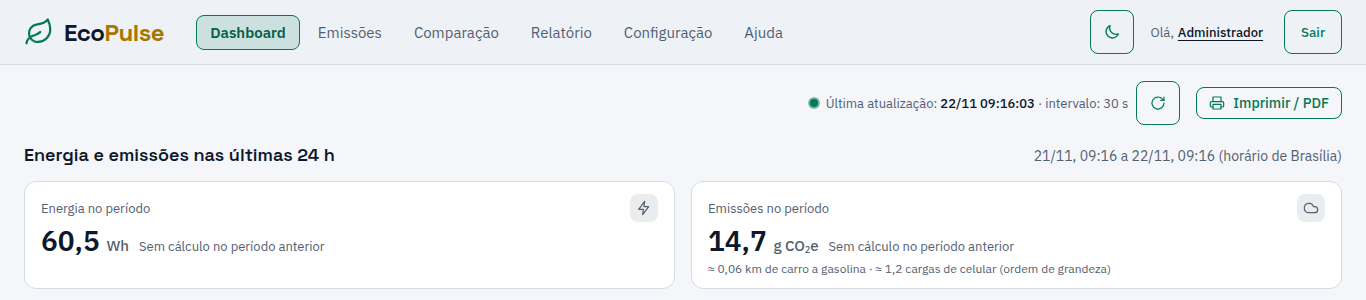
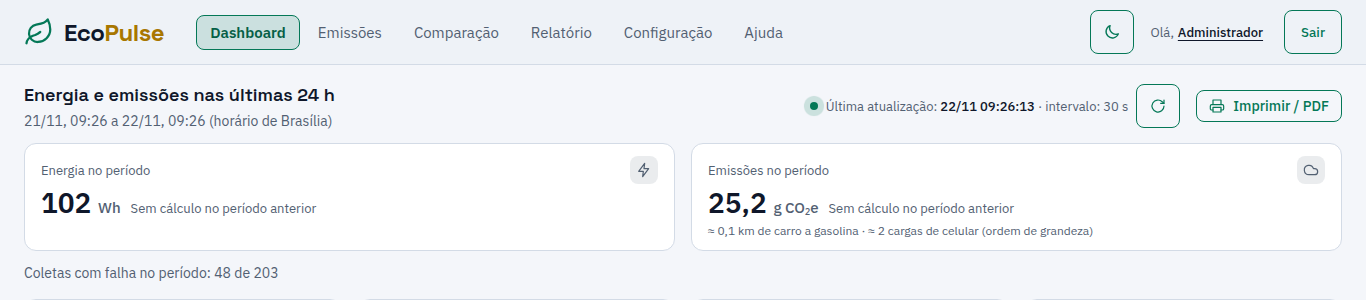
docs(docs): descreve a atualização na linha do título (#434)

diff --git a/frontend/README.md b/frontend/README.md
@@ -38,7 +38,7 @@ Lidas do `.env` da **raiz** do repositório (modelo em `.env.example`; `envDir: 
 - Com a aba oculta o polling pausa; ao voltar para a aba, busca na hora.
 - Ao sair da tela, o timer é limpo e a requisição pendente é cancelada (`AbortController`).
 - O intervalo vem do backend (#176): o `MonitoringProvider` lê `GET /monitoring-settings` ao abrir e de novo a cada ciclo, então uma troca feita na Configuração, em qualquer aba ou navegador, vale para todos no ciclo seguinte. Se a rota falhar ou responder fora do contrato, fica o último valor lido (antes do primeiro, o `VITE_REFRESH_INTERVAL_MS`).
-- No topo do Dashboard, à esquerda de **Imprimir / PDF**, ficam "Última atualização: dd/mm HH:MM:SS · intervalo: N s" e o botão **Atualizar agora**; antes da primeira busca bem-sucedida (inclusive se ela falhar), aparece "Aguardando a primeira atualização" com o intervalo e o botão. Até a #434 os dois ficavam no cabeçalho, e o menu quebrava em duas linhas abaixo de cerca de 1.215 px; agora o cabeçalho só tem a marca, o menu e as ações da pessoa, e fica em uma linha a partir de cerca de 1.110 px. No papel a barra some, e o cabeçalho do relatório traz a última atualização.
+- Na linha do título **Energia e emissões nas últimas 24 h**, à direita (com o período embaixo do título), ficam "Última atualização: dd/mm HH:MM:SS · intervalo: N s", o botão **Atualizar agora** e **Imprimir / PDF**; em tela estreita, os três descem para baixo do período. Enquanto o painel não aparece (carregando, falha sem dados, nenhum serviço, modo demonstração), a mesma barra fica sozinha no topo da página, para a última atualização nunca sumir; antes da primeira busca bem-sucedida (inclusive se ela falhar), aparece "Aguardando a primeira atualização" com o intervalo e o botão. Até a #434 os dois ficavam no cabeçalho, e o menu quebrava em duas linhas abaixo de cerca de 1.215 px; agora o cabeçalho só tem a marca, o menu e as ações da pessoa, e fica em uma linha a partir de cerca de 1.110 px. No papel a barra some, e o cabeçalho do relatório traz a última atualização.
 - Durante uma busca o botão fica com `aria-disabled` (não `disabled`), para quem navega pelo teclado não perder o foco a cada ciclo. O selo não é `role="status"`: o horário não é anunciado a cada ciclo, e a falha é anunciada pelo aviso de erro.
 - Se uma atualização falhar com dados na tela, eles continuam visíveis, o selo fica laranja ("Desatualizado desde…") e, acima dos cards, aparece a faixa compacta laranja `UpdateFailedBanner` (cerca de 40 px): a mensagem do erro, "Mostrando dados de HH:MM:SS." e **Tentar novamente**. A mensagem é a que o hook entrega: "Não foi possível conectar ao servidor…" quando a rede cai, ou a do corpo do erro num 500. O aviso grande (`ErrorState`) fica só para a falha sem nenhum dado.
 - A faixa é `role="status"`, e não `alert`: a região viva fica montada enquanto há dados, e o leitor de tela anuncia a falha uma vez, e não a cada ciclo do polling.
@@ -143,7 +143,7 @@ _Backend falso, 1280 px, tema escuro, em 21/11/2026: o nome salvo já aparece no
 
 ## Indicadores agregados (RF08)
 
-- `IndicatorsPanel` fica no topo do dashboard, logo abaixo do cabeçalho e acima dos cards de estado (#259: o impacto vem primeiro), e mostra **Energia no período** e **Emissões no período** das **últimas 24 h**, na unidade que o valor pede ("841 Wh", "1,23 kWh", "301 g CO₂e"; [regra das unidades](#unidades-de-energia-e-emissão-271)), com o período no título em horário de Brasília (`timeZone: 'America/Sao_Paulo'`). O estado dos serviços fica só nos cards do `KpiPanel` (#21): o `servicesByStatus` de `GET /api/services/summary` é o estado **atual** e não depende do período, por isso o painel não o repete.
+- `IndicatorsPanel` fica no topo do dashboard, logo abaixo do cabeçalho e acima dos cards de estado (#259: o impacto vem primeiro), e mostra **Energia no período** e **Emissões no período** das **últimas 24 h**, na unidade que o valor pede ("841 Wh", "1,23 kWh", "301 g CO₂e"; [regra das unidades](#unidades-de-energia-e-emissão-271)), com o período embaixo do título em horário de Brasília (`timeZone: 'America/Sao_Paulo'`) e, na mesma linha do título, a prop `actions`: no Dashboard, a última atualização, **Atualizar agora** e **Imprimir / PDF** (#434). O estado dos serviços fica só nos cards do `KpiPanel` (#21): o `servicesByStatus` de `GET /api/services/summary` é o estado **atual** e não depende do período, por isso o painel não o repete.
 - **Janela única de 24 h (#375):** a cada atualização bem-sucedida da lista, `dashboardPeriod(updatedAt)` calcula uma única vez `from` e `to`. `GET /api/services/summary`, `GET /api/services/ranking` e `GET /api/regions/summary` recebem exatamente os mesmos instantes ISO; a borda do período não muda entre as três consultas. O hook `useSummary` recebe essa janela pronta. Em caso de falha da lista, a janela não avança até a próxima atualização bem-sucedida.
 - O `DashboardPage` chama `GET /api/services/summary` (por `fetchServicesSummary`, em `src/services/summary.service.ts`, chamado pelo hook `useSummary`) a cada ciclo do polling, **uma vez**: a resposta traz o período atual (`from`/`to`, as últimas 24 h) e o `previous` com as 24 h anteriores, de mesma duração (contrato de `docs/api.md`, #234). A nota de cada card é a variação com seta: "▲ 12,4% vs 24 h anteriores" em laranja (energia e CO₂e são métricas em que menos é melhor), "▼ 8,1%" em verde e "±0%" em cinza abaixo de 0,5%. De 100% a 999%, sem casa decimal ("▲ 880%"); acima de 999%, "▲ 10×+". Sem cálculo nas 24 h anteriores, a nota é "Sem cálculo no período anterior"; com total anterior zero, a nota é "— vs. 24 h anteriores" e o motivo fica no tooltip. O rótulo base é "vs. 24 h anteriores". O valor exato, com sinal e uma casa, também fica no tooltip; o leitor de tela ouve "subiu" ou "caiu" no lugar da seta.
 - Equivalência do CO₂e (#333): abaixo do valor de **Emissões no período**, o card mostra duas unidades do dia a dia ("≈ 8,7 km de carro a gasolina · ≈ 170 cargas de celular (ordem de grandeza)" para 2,13 kg CO₂e), calculadas por `src/utils/equivalents.ts` com os fatores de [docs/calculos.md § Equivalências](../docs/calculos.md#equivalências) — 244,2 g CO₂e/km de carro e 12,4 g CO₂ por carga de celular, da calculadora de equivalências da EPA consultada em 13/11/2026. Dois algarismos significativos no padrão brasileiro; abaixo de 0,01 a unidade vira "< 0,01", nunca zero. O tooltip da linha traz o fator, a fonte e a data de consulta, e o mesmo texto vai num `sr-only`, para quem usa leitor de tela ou toque (sem hover); a linha é só de apresentação e não é gravada. Sem CO₂e calculado (`null`) ou com total zero, ela não aparece.
@@ -433,7 +433,7 @@ npm run mock        # backend falso em http://localhost:3000 (desenvolvimento)
 7. Ao abrir, a tabela já vem ordenada pelo CO₂e das 24 h, do maior para o menor (#330): o título **CO₂e 24 h** mostra ↓ (`aria-sort="descending"`), a primeira linha é **Fraud Detector** e **Email Dispatcher** e **Inventory Sync**, sem cálculo no período, ficam no fim. Clicar em **Status** → ordena por gravidade (Indisponível, Sem métricas, Ativo, Removido), com desempate pelo maior CO₂e das 24 h. Clicar nos títulos das colunas (Serviço, Status, Energia 24 h, CO₂e 24 h, Parte, CPU, Fator, Última leitura, Localização) → ordena; clicar de novo inverte; serviços sem valor ficam sempre no fim. Localização ordena pela região (depois país e cidade). Ordenar por **CO₂e 24 h**, nos dois sentidos → um serviço **Removido** fica sempre na última linha, com os números em cinza. Com a tela aberta, parar o backend (`docker compose stop backend`) e clicar em **Atualizar agora** → além da faixa laranja, os números da tabela ficam em cinza, inclusive a coluna **Parte do CO₂e (24 h)**, sem o neon do 1º, e a frase **Quem pesa mais** perde a borda verde; `docker compose start backend` e **Tentar novamente** → voltam à cor normal (#261, #260).
 8. `MOCK_SERVICES=vazio npm run mock` e recarregar → "Nenhum serviço monitorado ainda".
 9. `MOCK_SERVICES=erro npm run mock` e recarregar → sem nenhum dado na tela, aparece um aviso grande "Falha simulada no backend falso." (a mensagem vem do corpo do erro) com **Tentar novamente**: a lista de serviços e o painel de indicadores falham juntos, como no backend real com o banco fora do ar, e o aviso é um só (#271). O ranking de CO₂e nem é pedido, porque espera a primeira lista: o terminal do mock não registra `GET /services/ranking`.
-10. Com dados carregados, o topo do Dashboard mostra, à esquerda de **Imprimir / PDF**, o selo **"Última atualização: dd/mm HH:MM:SS"** com um ponto verde pulsando (sistema ativo); com "reduzir movimento" ligado no sistema, o ponto fica parado. A cada horário novo no selo, o logo pulsa uma vez: a folha vira uma linha de batimento com brilho neon e volta (cerca de 2,4 s). Ele não pulsa quando a atualização falha, em **Configuração** (sem polling) nem com "reduzir movimento", e dois cliques seguidos em **Atualizar agora** não reiniciam o pulso no meio. Apertar Tab logo depois de abrir a página → aparece **Pular para o conteúdo** no canto; Enter leva o foco ao conteúdo, pulando o menu (#262).
+10. Com dados carregados, a linha do título **Energia e emissões nas últimas 24 h** mostra, à esquerda de **Imprimir / PDF**, o selo **"Última atualização: dd/mm HH:MM:SS"** com um ponto verde pulsando (sistema ativo); com "reduzir movimento" ligado no sistema, o ponto fica parado. A cada horário novo no selo, o logo pulsa uma vez: a folha vira uma linha de batimento com brilho neon e volta (cerca de 2,4 s). Ele não pulsa quando a atualização falha, em **Configuração** (sem polling) nem com "reduzir movimento", e dois cliques seguidos em **Atualizar agora** não reiniciam o pulso no meio. Apertar Tab logo depois de abrir a página → aparece **Pular para o conteúdo** no canto; Enter leva o foco ao conteúdo, pulando o menu (#262).
 11. Com o mock no ar, carregar o dashboard, depois subir o mock com `MOCK_SERVICES=erro` e clicar em **Atualizar agora** → os dados continuam na tela, o selo fica laranja (**"Desatualizado desde …"**) e, acima dos cards, aparece a faixa compacta laranja "Falha simulada no backend falso. Mostrando dados de HH:MM:SS." com **Tentar novamente**, no lugar do aviso grande.
 12. Com o mock no ar com `MOCK_REFRESH_INTERVAL_SECONDS=5 npm run mock` (PowerShell: `$env:MOCK_REFRESH_INTERVAL_SECONDS='5'; npm run mock`): a cada 5 s o horário do selo muda e o terminal do mock registra um novo `GET /services`; os valores de CPU e energia mudam na tabela **sem recarregar a página**. O selo mostra "intervalo: 5 s".
 13. Clicar em **Atualizar agora** (ícone ao lado do selo) → busca na hora, sem esperar o intervalo.

diff --git a/README.md b/README.md
@@ -90,11 +90,11 @@ O desenvolvimento acontece na branch `develop`; cada funcionalidade entra nesta 
 
   _Dashboard com o backend real (`docker compose`) em 07/11/2026, 14h25, num banco novo com poucos minutos de coletas do agregador: o Fraud Detector respondeu por 27,6% do CO₂e das últimas 24 h, e a coluna soma 100,0%._
 
-- **RNF02 — Indicador de última atualização (#89, #434):** selo no topo do Dashboard, à esquerda de **Imprimir / PDF**, com o horário da última busca bem-sucedida, o intervalo e o botão **Atualizar agora**, e um ponto verde pulsando enquanto os dados estão em dia; se uma busca falha, ele fica laranja e passa a dizer "Desatualizado desde …", sem apagar os dados da tela. Até a #434 o selo ficava no cabeçalho, e o menu quebrava em duas linhas em 1366 px; agora o cabeçalho fica em uma linha a partir de cerca de 1.110 px ([detalhes](frontend/README.md#atualização-em-tempo-real)).
+- **RNF02 — Indicador de última atualização (#89, #434):** selo na linha do título **Energia e emissões nas últimas 24 h** do Dashboard, à direita, com o horário da última busca bem-sucedida, o intervalo, o botão **Atualizar agora** e **Imprimir / PDF** ao lado, e um ponto verde pulsando enquanto os dados estão em dia; se uma busca falha, ele fica laranja e passa a dizer "Desatualizado desde …", sem apagar os dados da tela. Até a #434 o selo ficava no cabeçalho, e o menu quebrava em duas linhas em 1366 px; agora o cabeçalho fica em uma linha a partir de cerca de 1.110 px ([detalhes](frontend/README.md#atualização-em-tempo-real)).
 
-  ![Cabeçalho em uma linha e, abaixo dele, o selo de última atualização ao lado de Imprimir / PDF](docs/img/sprint-3-ultima-atualizacao.png)
+  ![Cabeçalho em uma linha e, na linha do título do Dashboard, o selo de última atualização com Atualizar agora e Imprimir / PDF](docs/img/sprint-3-ultima-atualizacao.png)
 
-  _Dashboard com o backend real (`docker compose`) em 22/11/2026, 9h16, em 1366 px e no tema claro: o menu e as ações da pessoa numa linha só; abaixo, "Última atualização: 22/11 09:16:03 · intervalo: 30 s", o botão de atualizar e **Imprimir / PDF**._
+  _Dashboard com o backend real (`docker compose`) em 22/11/2026, 9h26, em 1366 px e no tema claro: o menu e as ações da pessoa numa linha só; abaixo, a linha do título "Energia e emissões nas últimas 24 h", com o período embaixo e, à direita, "Última atualização: 22/11 09:26:13 · intervalo: 30 s", o botão de atualizar e **Imprimir / PDF**._
 
 - **RNF04 — Resposta da API conferida antes de aparecer na tela (#161):** o frontend confere o formato de `GET /api/services` e `GET /api/collections` (#161), e também de `GET /api/services/summary` e `GET /api/services/compare` (#237, PR [#252](https://github.com/DEVassos/ecopulse-app/pull/252)), contra o contrato de [docs/api.md](docs/api.md) a cada busca. Um item sem `id` ou com CPU em texto faz a busca ser tratada como falha: os dados anteriores continuam com "Desatualizado desde …" e **Tentar novamente**, e o item inválido não aparece. Atende ao apontamento do cliente na review da Sprint 1. Como verificar em [frontend/README.md](frontend/README.md#conferência-das-respostas-da-api-161).
 

diff --git a/docs/identidade-visual.md b/docs/identidade-visual.md
@@ -138,7 +138,7 @@ No tema escuro, `--neon-text` é o próprio `--neon`. Os dois só se separam no 
   2. Mapa reduzido.
   3. Dashboard da região/serviço selecionado.
   4. Ranking de consumo ao final da página.
-* Cabeçalho abaixo de 961 px (#258): a primeira linha tem a marca, o nome de quem entrou e **Sair** (sem sessão, o cabeçalho não aparece, #257) e a segunda o menu. Na tela larga, tudo fica numa linha só. A "Última atualização" com o botão de atualizar não mora no cabeçalho: desde a #434 ela fica no topo do Dashboard, à esquerda de **Imprimir / PDF**, para o menu caber em uma linha em 1366 px.
+* Cabeçalho abaixo de 961 px (#258): a primeira linha tem a marca, o nome de quem entrou e **Sair** (sem sessão, o cabeçalho não aparece, #257) e a segunda o menu. Na tela larga, tudo fica numa linha só. A "Última atualização" com o botão de atualizar não mora no cabeçalho: desde a #434 ela fica na linha do título **Energia e emissões nas últimas 24 h** do Dashboard, à direita, com **Imprimir / PDF**, para o menu caber em uma linha em 1366 px.
 * Abaixo de 600 px (#274), a faixa do menu dá lugar ao botão **Menu**, na linha da marca, que abre uma grade de duas colunas logo abaixo do cabeçalho, sobre o fundo apagado: cada página é um cartão em `--surface` com o ícone sobre o rótulo, e a atual tem o mesmo verde do item ativo da faixa. Nenhum item do menu fica cortado ou escondido numa rolagem lateral. A saudação ("Olá, nome", com o e-mail em `--muted`) e o botão de tema saem da linha da marca e vão para o fim do painel; no cabeçalho fica só o **Sair**.
 * Os cards de energia e emissões do período ficam em uma coluna no celular, para o valor e a unidade ("g CO₂e") caberem na mesma linha.
 * Tabela de serviços abaixo de 600 px (#263): a emissão da última leitura aparece também sob o nome, em `--mono` 12 px e `--muted`. Toda área com rolagem horizontal (tabela de serviços, matriz da Comparação) mostra uma sombra interna em `--bg` na borda direita enquanto há colunas escondidas (`.scroll-edge`). É um sinal de estado, não elevação, e some quando a rolagem chega ao fim.
